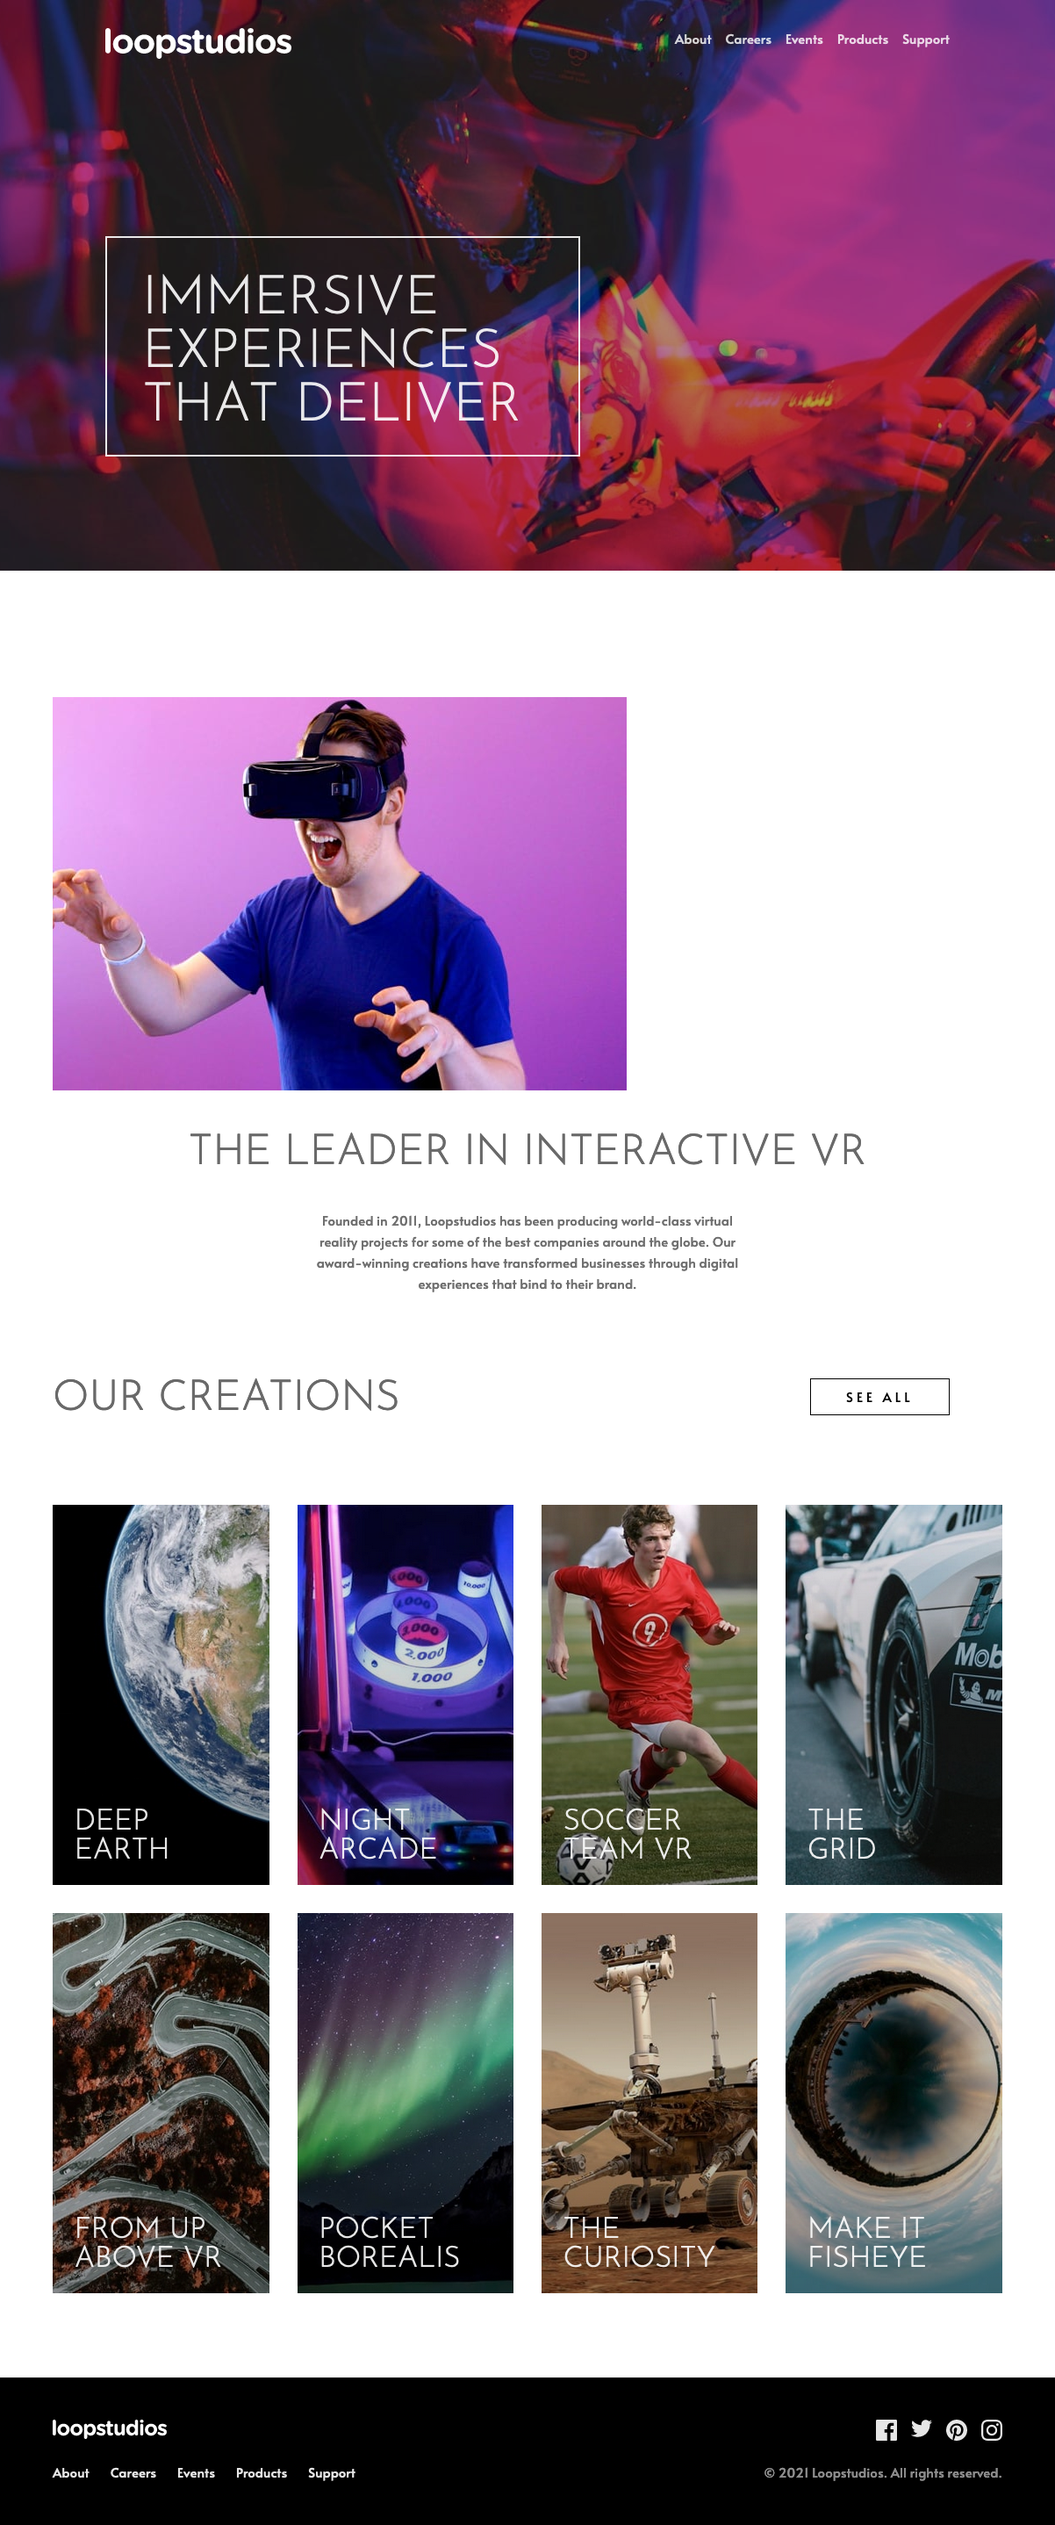
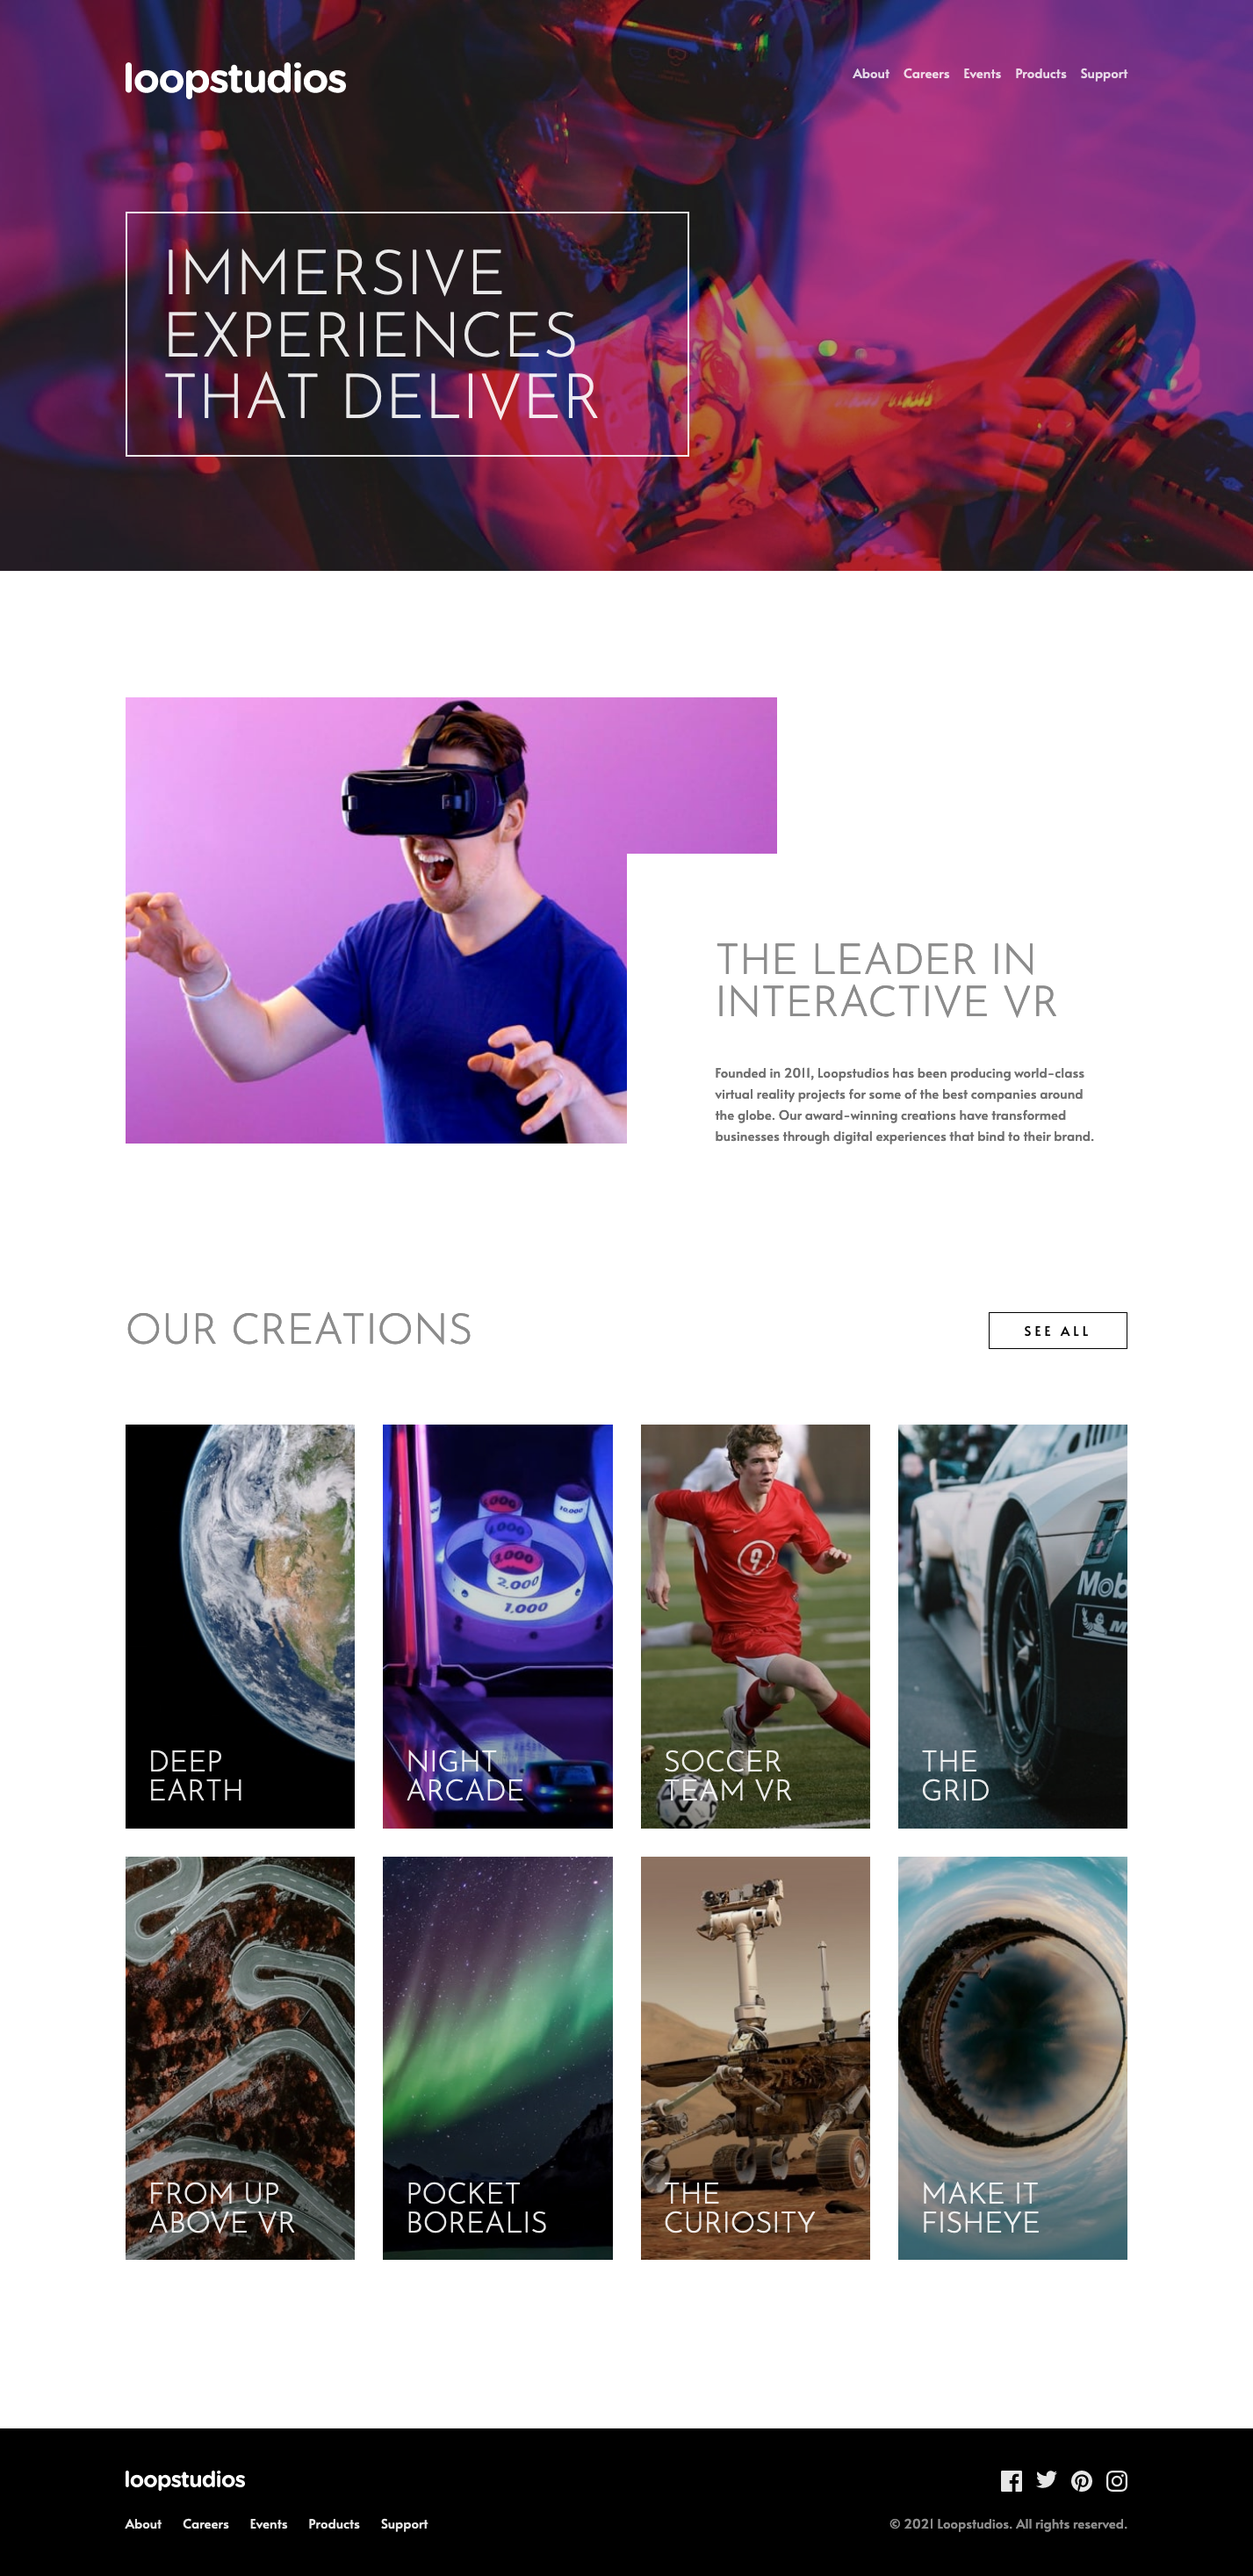
adjust padding

diff --git a/style.css b/style.css
@@ -112,8 +112,8 @@ a {
 .header {
   background-image: url("images/mobile/image-hero.jpg");
   background-size: cover, cover;
-  padding-block: 2rem;
-  padding-inline: max(1.5rem, 5%);
+  padding-block: max(2rem, 5%);
+  padding-inline: max(1.5rem, 6%);
   position: relative;
   height: 100vh;
   color: white;
@@ -194,7 +194,7 @@ section {
   text-align: center;
 }
 section h2 {
-  color: var(--veryDarkgrey);
+  color: var(--darkgrey);
   font-size: 2.2em;
   text-transform: uppercase;
 }
@@ -412,7 +412,7 @@ section h2 {
   }
 
   .projects_title {
-    margin-bottom: 6rem;
+    margin-bottom: 5rem;
     text-align: left;
   }
 
